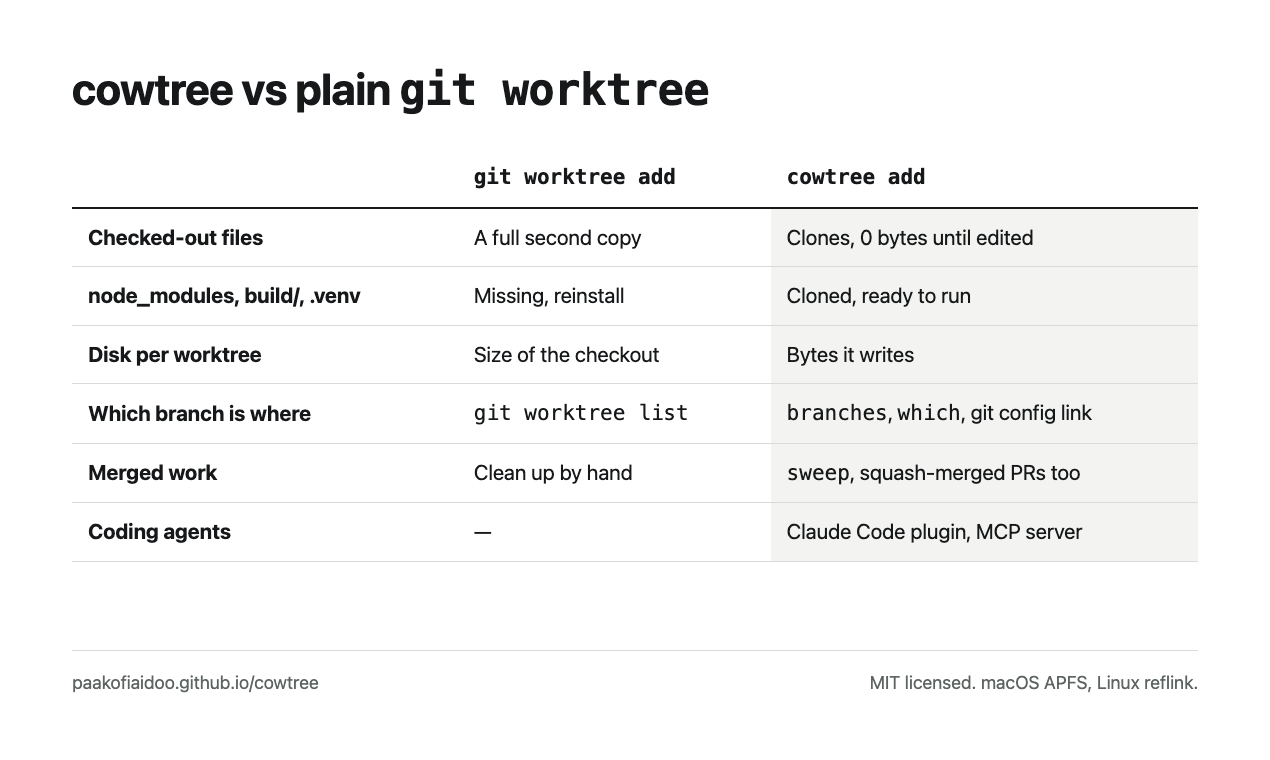
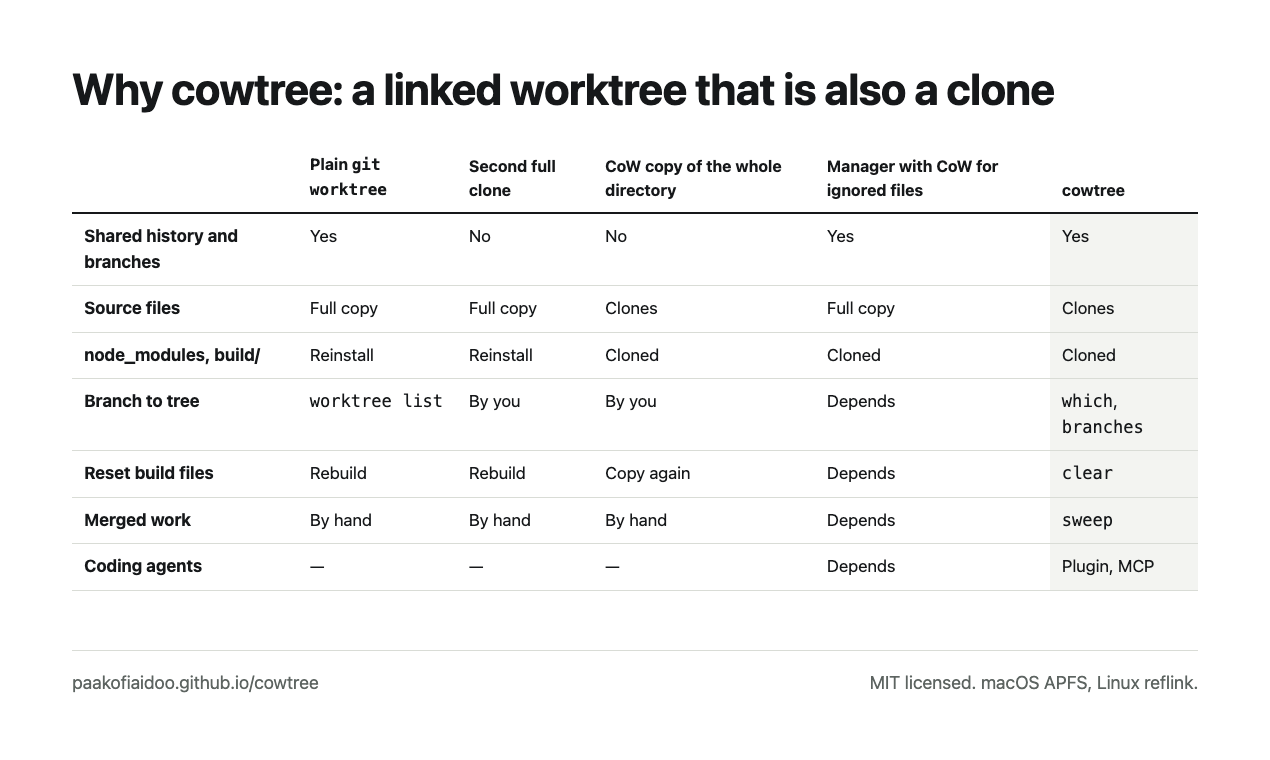
0.5.0: cowtree clear, Why cowtree section on the site (#2)
cowtree clear <worktree> [--dry-run] [--untracked] (alias reset) removes a
worktree's git-ignored paths and re-clones them from the base, adds ignored
paths only the base has, and reports owned bytes before and after. Tracked
files are never touched; untracked, non-ignored files are kept unless
--untracked; the base checkout is refused. Exposed as the cowtree_clear MCP
tool and /cowtree-clear; covered in smoke.sh.

Site: Why cowtree comparison by approach, clear command card; launch kit and
gallery image 4 updated to match.

Assisted-by: Claude Opus 5.5

diff --git a/site/index.html b/site/index.html
@@ -30,7 +30,7 @@
   "url": "https://paakofiaidoo.github.io/cowtree/",
   "applicationCategory": "DeveloperApplication",
   "operatingSystem": "macOS, Linux",
-  "softwareVersion": "0.4.1",
+  "softwareVersion": "0.5.0",
   "license": "https://opensource.org/licenses/MIT",
   "downloadUrl": "https://github.com/paakofiaidoo/cowtree/releases",
   "installUrl": "https://github.com/paakofiaidoo/cowtree#install",
@@ -103,6 +103,8 @@ ol.steps li:first-child{border-top:0;padding-top:0}
 .cmds pre{margin:12px 0 0;font-size:12.5px}
 .tablewrap{overflow-x:auto;margin-top:28px}
 table{width:100%;border-collapse:collapse;font-size:15px}
+table.approaches{min-width:820px}
+table.approaches thead th{vertical-align:bottom;font-weight:600}
 th,td{text-align:left;vertical-align:top;padding:12px 14px;border-bottom:1px solid var(--rule)}
 thead th{border-bottom:1px solid var(--ink);font-size:14px}
 tbody th{font-weight:600;width:22%}
@@ -140,7 +142,7 @@ footer p{color:var(--muted);margin:0}
     <nav class="top" aria-label="Primary">
       <a class="hide-s" href="#how">How it works</a>
       <a class="hide-s" href="#commands">Commands</a>
-      <a class="hide-s" href="#agents">Agents</a>
+      <a class="hide-s" href="#why">Why cowtree</a>
       <a href="https://github.com/paakofiaidoo/cowtree">GitHub</a>
     </nav>
   </div>
@@ -157,7 +159,7 @@ footer p{color:var(--muted);margin:0}
       <div>
       <div class="cmd"><code id="c1">brew install paakofiaidoo/tap/cowtree</code><button type="button" data-copy="c1">Copy</button></div>
       <div class="cmd alt"><code id="c2">curl -fsSL https://raw.githubusercontent.com/paakofiaidoo/cowtree/main/install.sh | bash</code><button type="button" data-copy="c2">Copy</button></div>
-      <p class="meta">Version 0.4.1, MIT licensed. Runs on macOS (APFS) and on Linux with btrfs, XFS or bcachefs. <a href="https://github.com/paakofiaidoo/cowtree/releases">Release notes</a>.</p>
+      <p class="meta">Version 0.5.0, MIT licensed. Runs on macOS (APFS) and on Linux with btrfs, XFS or bcachefs. <a href="https://github.com/paakofiaidoo/cowtree/releases">Release notes</a>.</p>
       </div>
     </div>
     <figure style="margin:0">
@@ -238,8 +240,8 @@ Preparing worktree (new branch 'payments-retry')
 
 <section id="commands">
   <div class="wrap">
-    <h2>Five commands cover the day</h2>
-    <p class="narrow">One task, one worktree, one branch. Start with <code>add</code>, find things with <code>ls</code> and <code>which</code>, finish with <code>rm</code> or let <code>sweep</code> clear what merged. Output below is real.</p>
+    <h2>Six commands cover the day</h2>
+    <p class="narrow">One task, one worktree, one branch. Start with <code>add</code>, find things with <code>ls</code> and <code>which</code>, reset build output with <code>clear</code>, finish with <code>rm</code> or let <code>sweep</code> remove what merged. Output below is real.</p>
     <div class="cmds">
       <article>
         <h3><code>cowtree add &lt;base&gt; &lt;topic&gt;</code></h3>
@@ -270,6 +272,23 @@ changes   1 uncommitted
 owned     12.0KB</pre>
       </article>
       <article class="wide">
+        <h3><code>cowtree clear &lt;worktree&gt;</code></h3>
+        <p>Git tracks the source; everything ignored is build output. <code>clear</code> throws the worktree's ignored paths away and re-clones them from the base, so they match the base again and the blocks they owned are freed. Tracked files and their edits are never touched; untracked files that are not ignored are kept unless you pass <code>--untracked</code>. Alias: <code>reset</code>.</p>
+<pre class="term"><span class="p">$</span> <span class="c">cowtree clear wt/myapp-checkout-v2 --dry-run</span>
+would reclone .next
+would reclone node_modules
+keep    NOTES.md  (untracked, not ignored; --untracked to reset it)
+owned 42.6MB, would free about 42.6MB
+<span class="p">$</span> <span class="c">cowtree clear wt/myapp-checkout-v2</span>
+reclone .next
+reclone node_modules
+keep    NOTES.md  (untracked, not ignored; --untracked to reset it)
+owned 42.6MB -&gt; <span class="g">16.0KB</span>
+<span class="p">$</span> <span class="c">git -C wt/myapp-checkout-v2 status --short</span>
+ M app/page.tsx
+?? NOTES.md</pre>
+      </article>
+      <article class="wide">
         <h3><code>cowtree rm &lt;worktree&gt;</code>, <code>sweep</code></h3>
         <p><code>rm</code> removes a worktree and deletes its branch if merged. <code>sweep</code> removes every clean worktree whose branch or GitHub PR merged, squash and rebase included.</p>
 <pre class="term"><span class="p">$</span> <span class="c">cowtree sweep ~/code/myapp --dry-run</span>
@@ -287,7 +306,7 @@ deleted merged branch fix-login</pre>
   <div class="wrap two">
     <div>
       <h2>Built for Claude Code, Codex and Cursor</h2>
-      <p>The repository is a Claude Code plugin: a skill that teaches the one-worktree-per-task rule, the <code>/cowtree-add</code>, <code>/cowtree-status</code> and <code>/cowtree-sweep</code> commands, and an MCP server that exposes every command as a tool.</p>
+      <p>The repository is a Claude Code plugin: a skill that teaches the one-worktree-per-task rule, the <code>/cowtree-add</code>, <code>/cowtree-status</code>, <code>/cowtree-clear</code> and <code>/cowtree-sweep</code> commands, and an MCP server that exposes every command as a tool.</p>
       <ul class="plain">
         <li><b>Claude Code:</b> <code>/plugin marketplace add paakofiaidoo/cowtree</code>, then <code>/plugin install cowtree</code>.</li>
         <li><b>Any MCP client</b> (Codex, Cursor, Windsurf, Zed, Cline): <code>python3 lib/mcp_server.py</code> over stdio, standard library only.</li>
@@ -301,27 +320,29 @@ deleted merged branch fix-login</pre>
 <pre class="term">{ "mcpServers": { "cowtree": {
     "command": "python3",
     "args": ["~/.cowtree/lib/mcp_server.py"] } } }</pre>
-      <p class="cap">MCP tools: <code>cowtree_add</code>, <code>cowtree_rm</code>, <code>cowtree_ls</code>, <code>cowtree_status</code>, <code>cowtree_diff</code>, <code>cowtree_branches</code>, <code>cowtree_which</code>, <code>cowtree_adopt</code>, <code>cowtree_sweep</code>, <code>cowtree_config</code>.</p>
+      <p class="cap">MCP tools: <code>cowtree_add</code>, <code>cowtree_rm</code>, <code>cowtree_ls</code>, <code>cowtree_status</code>, <code>cowtree_diff</code>, <code>cowtree_branches</code>, <code>cowtree_which</code>, <code>cowtree_adopt</code>, <code>cowtree_clear</code>, <code>cowtree_sweep</code>, <code>cowtree_config</code>.</p>
     </div>
   </div>
 </section>
 
-<section id="compare">
+<section id="why">
   <div class="wrap">
-    <h2>cowtree and plain <code>git worktree</code></h2>
-    <p class="narrow">A cowtree worktree is a git worktree. <code>git worktree list</code>, VS Code and JetBrains see it as a normal checkout. What changes is how its files get there.</p>
-    <div class="tablewrap"><table>
-      <thead><tr><th scope="col"></th><th scope="col"><code>git worktree add</code></th><th scope="col"><code>cowtree add</code></th></tr></thead>
+    <h2>Why cowtree</h2>
+    <p class="narrow">There are several ways to give each session its own working tree. A cowtree worktree is both: a real linked git worktree that shares history and branches with the base, and a copy-on-write clone of the whole checkout, ignored build directories included. Around that it keeps the bookkeeping parallel sessions need.</p>
+    <div class="tablewrap"><table class="approaches">
+      <thead><tr><th scope="col"></th><th scope="col">Plain <code>git worktree</code></th><th scope="col">A second full clone</th><th scope="col">Copy-on-write copy of the whole directory</th><th scope="col">Worktree manager, copy-on-write for ignored files only</th><th scope="col">cowtree</th></tr></thead>
       <tbody>
-        <tr><th scope="row">Checked-out files</th><td>A full second copy</td><td class="us">Clones of the base, zero bytes until edited</td></tr>
-        <tr><th scope="row"><code>node_modules</code>, <code>build/</code>, <code>.venv</code></th><td>Missing; reinstall per worktree</td><td class="us">Cloned with everything else, ready to run</td></tr>
-        <tr><th scope="row">Disk per worktree</th><td>Size of the checkout</td><td class="us">Bytes the worktree writes</td></tr>
-        <tr><th scope="row">Which branch is where</th><td><code>git worktree list</code></td><td class="us"><code>branches</code>, <code>which</code>, plus a link in git config</td></tr>
-        <tr><th scope="row">Cleaning up merged work</th><td>By hand</td><td class="us"><code>sweep</code>, including squash-merged PRs via <code>gh</code></td></tr>
-        <tr><th scope="row">Existing worktrees</th><td>—</td><td class="us"><code>adopt</code> / <code>dedupe</code> turn them into clones</td></tr>
-        <tr><th scope="row">Coding agents</th><td>—</td><td class="us">Claude Code plugin, MCP server, AGENTS.md and Cursor rules</td></tr>
+        <tr><th scope="row">One repository: shared history and branches</th><td>Yes</td><td>No, a separate repository</td><td>No, a copy of the repository, <code>.git</code> included</td><td>Yes</td><td class="us">Yes</td></tr>
+        <tr><th scope="row">Checked-out source files</th><td>Full copy</td><td>Full copy</td><td>Clones, 0 bytes until edited</td><td>Full copy</td><td class="us">Clones, 0 bytes until edited</td></tr>
+        <tr><th scope="row"><code>node_modules</code>, <code>build/</code>, <code>.venv</code></th><td>Missing, reinstall</td><td>Missing, reinstall</td><td>Cloned</td><td>Cloned</td><td class="us">Cloned</td></tr>
+        <tr><th scope="row">Which branch is in which tree</th><td><code>git worktree list</code></td><td>Kept track of by you</td><td>Kept track of by you</td><td>Depends on the tool</td><td class="us"><code>which</code>, <code>branches</code>, a link in git config</td></tr>
+        <tr><th scope="row">Reset build files to the base's</th><td>Delete and rebuild</td><td>Delete and rebuild</td><td>Copy the directory again</td><td>Depends on the tool</td><td class="us"><code>clear</code></td></tr>
+        <tr><th scope="row">Remove merged work</th><td>By hand</td><td>By hand</td><td>By hand</td><td>Depends on the tool</td><td class="us"><code>sweep</code>, squash-merged PRs too</td></tr>
+        <tr><th scope="row">Existing worktrees</th><td>—</td><td>—</td><td>—</td><td>Depends on the tool</td><td class="us"><code>adopt</code> and <code>dedupe</code> turn them into clones</td></tr>
+        <tr><th scope="row">Coding agents</th><td>—</td><td>—</td><td>—</td><td>Depends on the tool</td><td class="us">Claude Code plugin, MCP server, AGENTS.md and Cursor rules</td></tr>
       </tbody>
     </table></div>
+    <p class="cap">A cowtree worktree is still a git worktree: <code>git worktree list</code>, VS Code and JetBrains see a normal checkout. Copy-on-write needs APFS on macOS or btrfs, XFS or bcachefs on Linux; the Linux reflink backend is written but not yet exercised on a Linux box, and elsewhere cowtree falls back to a plain copy and says so.</p>
   </div>
 </section>
 

diff --git a/docs/launch/src/4-compare.html b/docs/launch/src/4-compare.html
@@ -1,12 +1,13 @@
-<!doctype html><meta charset="utf-8"><link rel="stylesheet" href="base.css"><body><h2>cowtree vs plain <code>git worktree</code></h2>
-<table style="margin-top:34px;border-collapse:collapse;width:100%;font-size:21px">
-<style>td,th{padding:13px 16px;border-bottom:1px solid #d9dcd6;text-align:left}thead th{border-bottom:2px solid #16181a}td.us{background:#f3f4f1}</style>
-<thead><tr><th></th><th><code>git worktree a&#100;d</code></th><th><code>cowtree add</code></th></tr></thead>
-<tr><th>Checked-out files</th><td>A full second copy</td><td class="us">Clones, 0 bytes until edited</td></tr>
-<tr><th>node_modules, build/, .venv</th><td>Missing, reinstall</td><td class="us">Cloned, ready to run</td></tr>
-<tr><th>Disk per worktree</th><td>Size of the checkout</td><td class="us">Bytes it writes</td></tr>
-<tr><th>Which branch is where</th><td><code>git worktree list</code></td><td class="us"><code>branches</code>, <code>which</code>, git config link</td></tr>
-<tr><th>Merged work</th><td>Clean up by hand</td><td class="us"><code>sweep</code>, squash-merged PRs too</td></tr>
-<tr><th>Coding agents</th><td>—</td><td class="us">Claude Code plugin, MCP server</td></tr>
+<!doctype html><meta charset="utf-8"><link rel="stylesheet" href="base.css"><body><h2>Why cowtree: a linked worktree that is also a clone</h2>
+<table style="margin-top:30px;border-collapse:collapse;width:100%;font-size:17px">
+<style>td,th{padding:10px 12px;border-bottom:1px solid #d9dcd6;text-align:left;vertical-align:top}thead th{border-bottom:2px solid #16181a;vertical-align:bottom;font-size:16px}td.us{background:#f3f4f1}</style>
+<thead><tr><th></th><th>Plain <code>git worktree</code></th><th>Second full clone</th><th>CoW copy of the whole directory</th><th>Manager with CoW for ignored files</th><th>cowtree</th></tr></thead>
+<tr><th>Shared history and branches</th><td>Yes</td><td>No</td><td>No</td><td>Yes</td><td class="us">Yes</td></tr>
+<tr><th>Source files</th><td>Full copy</td><td>Full copy</td><td>Clones</td><td>Full copy</td><td class="us">Clones</td></tr>
+<tr><th>node_modules, build/</th><td>Reinstall</td><td>Reinstall</td><td>Cloned</td><td>Cloned</td><td class="us">Cloned</td></tr>
+<tr><th>Branch to tree</th><td><code>worktree list</code></td><td>By you</td><td>By you</td><td>Depends</td><td class="us"><code>which</code>, <code>branches</code></td></tr>
+<tr><th>Reset build files</th><td>Rebuild</td><td>Rebuild</td><td>Copy again</td><td>Depends</td><td class="us"><code>clear</code></td></tr>
+<tr><th>Merged work</th><td>By hand</td><td>By hand</td><td>By hand</td><td>Depends</td><td class="us"><code>sweep</code></td></tr>
+<tr><th>Coding agents</th><td>—</td><td>—</td><td>—</td><td>Depends</td><td class="us">Plugin, MCP</td></tr>
 </table>
 <div class="foot"><span>paakofiaidoo.github.io/cowtree</span><span>MIT licensed. macOS APFS, Linux reflink.</span></div>

diff --git a/docs/launch/src/5-agents.html b/docs/launch/src/5-agents.html
@@ -2,8 +2,8 @@
 <div style="display:grid;grid-template-columns:1fr 1fr;gap:48px;margin-top:36px">
 <div style="font-size:21px">
 <p>Skill: one task, one worktree, one branch.</p>
-<p style="margin-top:14px">Commands: <code>/cowtree-add</code>, <code>/cowtree-status</code>, <code>/cowtree-sweep</code>.</p>
-<p style="margin-top:14px">MCP tools for Codex, Cursor, Windsurf, Zed, Cline: <code>cowtree_add</code>, <code>cowtree_rm</code>, <code>cowtree_ls</code>, <code>cowtree_which</code>, <code>cowtree_sweep</code> and five more.</p>
+<p style="margin-top:14px">Commands: <code>/cowtree-add</code>, <code>/cowtree-status</code>, <code>/cowtree-clear</code>, <code>/cowtree-sweep</code>.</p>
+<p style="margin-top:14px">MCP tools for Codex, Cursor, Windsurf, Zed, Cline: <code>cowtree_add</code>, <code>cowtree_rm</code>, <code>cowtree_ls</code>, <code>cowtree_which</code>, <code>cowtree_sweep</code>, <code>cowtree_clear</code> and five more.</p>
 </div>
 <div>
 <pre class="term" style="font-size:17px"><span class="p">/plugin marketplace add</span> <span class="c">paakofiaidoo/cowtree</span>

diff --git a/lib/mcp_server.py b/lib/mcp_server.py
@@ -23,6 +23,8 @@ TOOLS = {
     "cowtree_branches": S("Map every local branch of a base to the worktree it is checked out in.", {"base": P("base checkout path")}, ["base"]),
     "cowtree_which": S("Worktree path for a branch.", {"branch": P("branch name"), "base": P("base checkout path")}, ["branch", "base"]),
     "cowtree_adopt": S("Link and dedupe an existing plain git worktree.", {"worktree": P("worktree path")}, ["worktree"]),
+    "cowtree_clear": S("Throw away a worktree's git-ignored build files (node_modules, build dirs, caches) and re-clone them copy-on-write from the base; tracked files and their edits are never touched. Untracked files that are not ignored are only listed unless untracked=true. Dry-run first.",
+                       {"worktree": P("worktree path"), "dry_run": {"type": "boolean"}, "untracked": {"type": "boolean"}}, ["worktree"]),
     "cowtree_sweep": S("Remove worktrees whose branch is merged and tree clean. Always dry-run first.", {"base": P("base checkout path; omit for --all"), "dry_run": {"type": "boolean"}}, []),
     "cowtree_config": S("Show resolved configuration.", {"path": P("worktree path, or omit for global")}, []),
 }
@@ -45,6 +47,7 @@ def call(name, a):
     elif name == "cowtree_branches": args = ["branches", a["base"]]
     elif name == "cowtree_which": args = ["which", a["branch"], a["base"]]
     elif name == "cowtree_adopt": args = ["adopt", a["worktree"]]
+    elif name == "cowtree_clear": args = ["clear", a["worktree"]] + (["--dry-run"] if a.get("dry_run", True) else []) + (["--untracked"] if a.get("untracked") else [])
     elif name == "cowtree_sweep": args = ["sweep", a.get("base") or "--all"] + (["--dry-run"] if a.get("dry_run", True) else [])
     elif name == "cowtree_config": args = ["config"] + ([a["path"]] if a.get("path") else [])
     else: return f"unknown tool {name}", True
@@ -64,7 +67,7 @@ def main():
         except ValueError: continue
         m, id_, p = req.get("method"), req.get("id"), req.get("params") or {}
         if m == "initialize":
-            reply(id_, {"protocolVersion": PROTOCOL, "capabilities": {"tools": {}}, "serverInfo": {"name": "cowtree", "version": "0.4.1"}})
+            reply(id_, {"protocolVersion": PROTOCOL, "capabilities": {"tools": {}}, "serverInfo": {"name": "cowtree", "version": "0.5.0"}})
         elif m == "tools/list":
             reply(id_, {"tools": [{"name": n, **t} for n, t in TOOLS.items()]})
         elif m == "tools/call":

diff --git a/docs/launch/product-hunt.md b/docs/launch/product-hunt.md
@@ -19,9 +19,9 @@ from 2026-11-18), small existing audience, goal is GitHub stars and installs rat
 | Thumbnail (240×240) | `docs/launch/gallery/thumbnail.png` |
 | Shoutouts | Claude Code, Git, Homebrew |
 
-**Description (245/260)**
+**Description (237/260)**
 
-> cowtree makes git worktrees out of APFS clonefile copies of your checkout, node_modules and build dirs included. Run many Claude Code, Codex or Cursor sessions on one repo, one branch each, at near-zero disk cost. CLI, Homebrew, MCP server. MIT.
+> Git worktrees made of APFS clonefile copies of your checkout, node_modules included. Run many Claude Code, Codex or Cursor sessions on one repo at near-zero disk cost; clear resets build files to the base. CLI, Homebrew, MCP server. MIT.
 
 ## Gallery (1270×760, in this order)
 
@@ -33,8 +33,8 @@ The first image is also the social preview, so it carries the pitch and real out
 | 1 | `docs/launch/gallery/1-hero.png` | Pitch, `brew install`, real `cowtree ls`: three worktrees of a 301 MB checkout owning 8–12 KB each |
 | 2 | `docs/launch/gallery/2-proof.png` | `du`, `df` before and after three `cowtree add`s (free space unchanged), one edit, `cowtree status` owning 12 KB |
 | 3 | `docs/launch/gallery/3-how.png` | Block diagram: clones share the base's blocks, only written blocks are owned; the four steps |
-| 4 | `docs/launch/gallery/4-compare.png` | cowtree vs plain `git worktree` |
-| 5 | `docs/launch/gallery/5-agents.png` | Claude Code plugin install, `/cowtree-*` commands, MCP tools |
+| 4 | `docs/launch/gallery/4-compare.png` | Why cowtree, compared by approach rather than by product: plain worktree, second clone, copy-on-write copy of the whole directory, worktree manager with copy-on-write for ignored files only |
+| 5 | `docs/launch/gallery/5-agents.png` | Claude Code plugin install, `/cowtree-*` commands (including `/cowtree-clear`), MCP tools |
 
 Video is optional; if you record one, keep it under 60 seconds: `cowtree add` three times, `cowtree ls`, open the
 worktree, run the app without reinstalling dependencies, `cowtree sweep`.
@@ -48,6 +48,8 @@ Post this the minute the launch goes live.
 > I run several Claude Code and Codex sessions on the same repository, one branch each. Each needs its own working tree, and `git worktree add` gives you that, but every worktree is a full copy of every file, and `node_modules` has to be reinstalled in each. On a nearly full laptop that stopped me at two or three sessions.
 >
 > cowtree builds the worktree out of APFS `clonefile` copies of the main checkout instead (reflink on btrfs/XFS), ignored build directories included. A 704 MB checkout becomes a 3.5 MB worktree, and editing a file costs that file. No FUSE, no daemon: a few hundred lines of bash and a small Python helper, so editors, compilers and git see ordinary files.
+>
+> Unlike a second clone or a copy of the whole directory, it stays one repository: a real linked worktree with shared history, one branch per tree. When a worktree's build output drifts, `cowtree clear` throws the ignored files away and re-clones them from the base; tracked files and your edits are never touched.
 >
 > It also records which branch lives in which worktree in git config (`cowtree which`, `cowtree branches`), sweeps worktrees whose PRs merged (squash merges too), turns your existing plain worktrees into clones (`cowtree adopt`), and ships as a Claude Code plugin and an MCP server so agents use it instead of `git worktree add`.
 >
@@ -64,7 +66,7 @@ Post this the minute the launch goes live.
 - [ ] Watch the Pages site in Search Console (add the property, submit `sitemap.xml`).
 
 **Last week**
-- [ ] Cut a release if `main` has moved since 0.4.1, and check the tap formula installs on a clean Mac.
+- [ ] Cut a release if `main` has moved since 0.5.0, and check the tap formula installs on a clean Mac.
 - [ ] Run through the README install paths: brew, curl installer, `/plugin install cowtree`.
 - [ ] Pre-write the X thread and LinkedIn post from `docs/ANNOUNCE.md`, with the Product Hunt link placeholder.
 - [ ] Send each person on the support list a personal note the day before: what it is, the date, no ask to upvote (vote requests break Product Hunt's rules); ask them to look and leave honest feedback.

diff --git a/README.md b/README.md
@@ -48,10 +48,10 @@ cowtree agent-install --project .       # add the cowtree rules to this repo's C
 
 - **Claude Code**: the repo is a plugin. `/plugin marketplace add paakofiaidoo/cowtree` then `/plugin install cowtree`,
   or `cowtree agent-install claude`, which links the skill into `~/.claude/skills`, the slash commands
-  `/cowtree-add`, `/cowtree-status`, `/cowtree-sweep` into `~/.claude/commands`, and registers the MCP server.
+  `/cowtree-add`, `/cowtree-status`, `/cowtree-clear`, `/cowtree-sweep` into `~/.claude/commands`, and registers the MCP server.
 - **MCP** (any MCP client: Codex, Cursor, Windsurf, Zed, Cline): `python3 <cowtree>/lib/mcp_server.py` over stdio,
   standard library only. Tools: `cowtree_add`, `cowtree_rm`, `cowtree_ls`, `cowtree_status`, `cowtree_diff`,
-  `cowtree_branches`, `cowtree_which`, `cowtree_adopt`, `cowtree_sweep`, `cowtree_config`.
+  `cowtree_branches`, `cowtree_which`, `cowtree_adopt`, `cowtree_clear`, `cowtree_sweep`, `cowtree_config`.
   ```json
   { "mcpServers": { "cowtree": { "command": "python3", "args": ["/Users/me/.cowtree/lib/mcp_server.py"] } } }
   ```
@@ -75,6 +75,7 @@ with `cowtree which`/`branches`, finish with `cowtree rm`, never plain `git work
 | `cowtree ls [<base>] \| --all` | Worktrees of one base, or every cowtree worktree under `wt_root`, with branch, logical size and bytes actually owned. |
 | `cowtree status [<worktree>]` | Base, branch, ahead/behind the base, uncommitted changes, owned bytes. |
 | `cowtree diff [<worktree>] [git-diff args]` | Diff of the worktree (committed + uncommitted) against the base's HEAD. |
+| `cowtree clear <worktree> [--dry-run] [--untracked]` | Reset a worktree's build files: every git-ignored path (`node_modules`, build dirs, caches, `.env` copies) is removed and re-cloned copy-on-write from the base, so it matches the base again and the blocks it owned are freed. Ignored paths the base does not have are removed; ignored paths only the base has are cloned in. Tracked files and their uncommitted edits are never touched. Untracked files that are not ignored may be new source, so they are listed and kept unless `--untracked` is given. Refuses to run on the base checkout. `--dry-run` prints the plan and the space it would free. Alias: `reset`. |
 | `cowtree dedupe <worktree> \| --all [--dry-run]` | Turn an existing plain worktree into a copy-on-write one: files byte-identical to the base become clones. Safe on dirty trees; modified files are left alone. |
 | `cowtree workspace <base> [--open]` | Write `<wt_root>/<repo>.code-workspace` listing the base and every worktree as VS Code folders. |
 | `cowtree code <worktree>` | Open the worktree in `editor`. |

diff --git a/skills/cowtree/SKILL.md b/skills/cowtree/SKILL.md
@@ -24,6 +24,7 @@ for the files you change, build dirs included. Install check: `cowtree version` 
 | list with disk cost | `cowtree ls <base>` / `cowtree ls --all` |
 | take over a plain worktree | `cowtree adopt <worktree>` |
 | reclaim space | `cowtree dedupe <worktree>` / `--all` |
+| reset build files to the base's | `cowtree clear <worktree> --dry-run`, then without `--dry-run`; `--untracked` also resets untracked, non-ignored files |
 | clean up merged | `cowtree sweep <base> [--dry-run]`, `cowtree rm <worktree>` |
 | VS Code window per repo | `cowtree workspace <base> --open` |
 | config | `cowtree config`, `cowtree config set <key> <value> [--project <base>]`, `cowtree init <base>` |

diff --git a/commands/cowtree-clear.md b/commands/cowtree-clear.md
@@ -1,0 +1,6 @@
+---
+description: Reset this worktree's git-ignored build files to copy-on-write clones of the base's
+argument-hint: [worktree] [--untracked]
+---
+Run `cowtree clear $ARGUMENTS --dry-run` (default worktree: the current directory) and show the plan verbatim. Then ask
+before running it without `--dry-run`. Pass `--untracked` only if the user asked for untracked, non-ignored files to be reset too.
